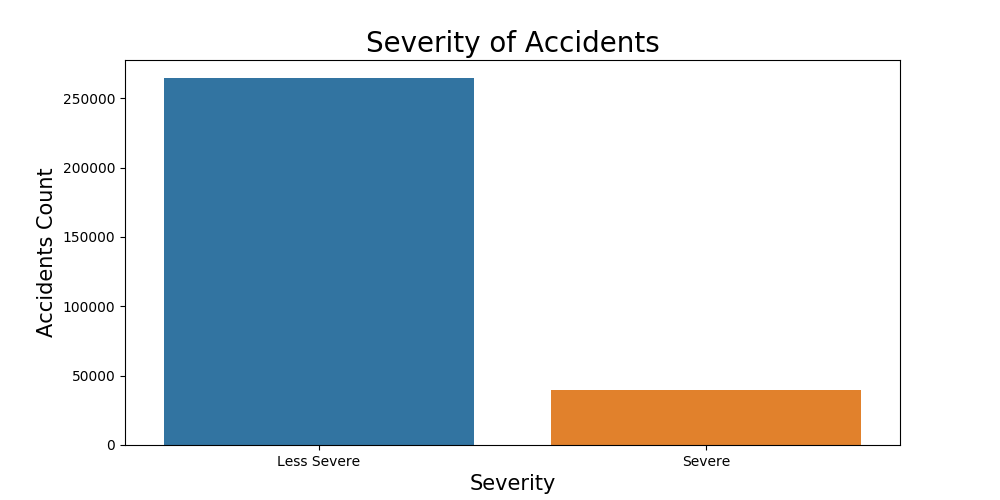
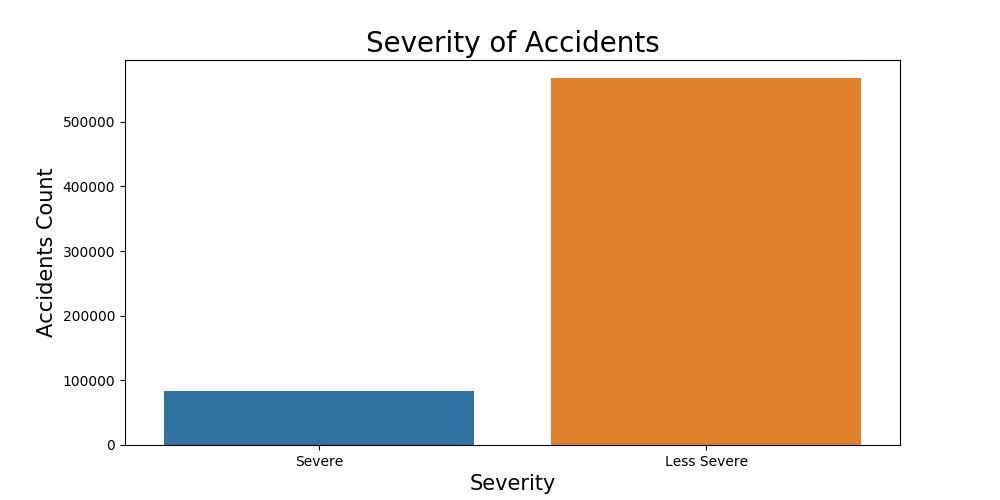
Implemented Supervised Learning algorithms

diff --git a/Core/supervised_learning.py b/Core/supervised_learning.py
@@ -1,0 +1,98 @@
+from sklearn.model_selection import train_test_split
+from sklearn import svm
+from Core.data_encoding_sampling import *
+from sklearn import metrics
+from sklearn.ensemble import RandomForestClassifier, AdaBoostClassifier
+from imblearn.ensemble import BalancedRandomForestClassifier, BalancedBaggingClassifier
+from sklearn.model_selection import cross_val_score
+from sklearn.metrics import confusion_matrix, classification_report
+from sklearn.metrics import precision_score, recall_score, roc_auc_score
+from sklearn.neighbors import KNeighborsClassifier
+
+
+class UnsupervisedLearning:
+    def visualise_confusion_matrix(self, data):
+        plt.figure(figsize=(10, 5))
+        plt.clf()
+        plt.imshow(data, interpolation='nearest', cmap='tab20')
+        classNames = ['No Loyalty', 'Loyalty']
+        plt.title('Confusion Matrix')
+        plt.ylabel('Actual\n')
+        plt.xlabel('Predicted\n')
+        tick_marks = np.arange(len(classNames))
+        plt.xticks(tick_marks, classNames)
+        plt.yticks(tick_marks, classNames)
+        s = [['TN', 'FP'], ['FN', 'TP']]
+        for i in range(2):
+            for j in range(2):
+                plt.text(j, i, str(s[i][j]) + "=" + str(data[i][j]), horizontalalignment='center',
+                         color='black')
+        plt.show()
+
+    def compare_models(self, accuracy_comparison, accuracy_table_cols):
+        for algorithm in machine_learning_algorithms:
+            algorithm.fit(X_train, y_train)
+            algorithm_name = algorithm.__class__.__name__
+            print(algorithm_name)
+            y_pred = algorithm.predict(X_test)
+            accuracy = metrics.accuracy_score(y_test, y_pred)
+            print("Accuracy", accuracy)
+            # cv_score = np.mean(cross_val_score(algorithm,X_train,y_train,cv=5))
+            # print("Cross Validation Score",cv_score)
+            print(classification_report(y_test, y_pred))
+            confusion_matrix_values = confusion_matrix(y_test, y_pred)
+
+            true_negative, false_positive, false_negative, true_positive = confusion_matrix_values.ravel()
+
+            fpr_value = false_positive / (true_negative + false_positive)
+            error_rate = 1 - accuracy
+            precision_value = precision_score(y_test, y_pred)
+            recall_value = recall_score(y_test, y_pred)
+            auc_value = roc_auc_score(y_test, y_pred)
+
+            print(precision_value)
+            print(recall_value)
+
+            accuracy_table = pd.DataFrame([[algorithm, round(accuracy * 100, 2), round(error_rate * 100, 2),
+                                            round(fpr_value * 100, 2), round(auc_value * 100, 2)
+                                               , round(precision_value * 100, 2), round(recall_value * 100, 2),
+                                            round(69 * 100, 2)]],
+                                          columns=accuracy_table_cols)
+            accuracy_comparison = accuracy_comparison.append(accuracy_table)
+            unsupervised_learning.visualise_confusion_matrix(confusion_matrix_values)
+
+        print(accuracy_comparison.head())
+
+    def other_models(self):
+        svm_classifier = svm.SVC(kernel='linear')
+        svm_classifier.fit(X_train, y_train)
+        y_pred = svm_classifier.predict(X_test)
+        print("Accuracy Report", classification_report(y_test, y_pred))
+
+
+unsupervised_learning = UnsupervisedLearning()
+data_encoding_object = DataEncoding(
+    "/Volumes/SJSU/CS271 Topics in Machine Learning/Final project/Dataset/main_frame.pkl")
+main_dataset, X, y = data_encoding_object.fetch_encoded_sampled_Data()
+X_train, X_test, y_train, y_test = train_test_split(X, y, test_size=0.33, random_state=109)
+
+machine_learning_algorithms = [
+    RandomForestClassifier(n_estimators=500, min_samples_split=10, max_depth=70, criterion='entropy',
+                           max_features=X.shape[1],
+                           random_state=42),
+    AdaBoostClassifier(n_estimators=500, learning_rate=0.05, random_state=42),
+    KNeighborsClassifier(n_neighbors=17)]
+
+accuracy_table_cols = ["Algorithm", "Accuracy", "Error", "FPR", "AUC", "Precision", "Recall", "Cross Validation Score"]
+accuracy_comparison = pd.DataFrame(columns=accuracy_table_cols)
+unsupervised_learning.compare_models(accuracy_comparison, accuracy_table_cols)
+
+balanced_ensemble_algorithms = [
+    BalancedRandomForestClassifier(n_estimators=500, sampling_strategy='majority', min_samples_split=10,
+                                   min_samples_leaf=1, criterion='entropy', max_depth=70,
+                                   max_features=X.shape[1],
+                                   replacement=True,
+                                   random_state=42),
+    BalancedBaggingClassifier(n_estimators=500, max_features=X.shape[1], replacement=True,
+                              sampling_strategy='majority', random_state=42)]
+

diff --git a/Core/data_cleansing.py b/Core/data_cleansing.py
@@ -21,7 +21,7 @@ class DataProcessor:
         for chunk_data in dataset:
             if dataset_name == "accident_dataset":
                 usefuldata = chunk_data[(chunk_data['Carriageway_Hazards'] != out_of_range)
-                                        & (chunk_data['Year'] >= 2012)
+                                        & (chunk_data['Year'] >= 2007)
                                         & (chunk_data['Weather_Conditions'] != out_of_range)
                                         & (chunk_data['Road_Type'] != "Unknown")
                                         & (chunk_data['Road_Surface_Conditions'] != out_of_range)
@@ -36,7 +36,7 @@ class DataProcessor:
                                         & (chunk_data['Skidding_and_Overturning'] != out_of_range)
                                         & (chunk_data['Age_Band_of_Driver'] != out_of_range)
                                         & (chunk_data['Was_Vehicle_Left_Hand_Drive'] != out_of_range)
-                                        & (chunk_data.Year.astype(int) >= 2012)
+                                        & (chunk_data.Year.astype(int) >= 2007)
                                         & (chunk_data['Hit_Object_in_Carriageway'] != out_of_range)
                                         & (chunk_data['Sex_of_Driver'] != out_of_range)
                                         & (chunk_data.Year.astype(int) <= 2017)

diff --git a/Core/data_encoding_sampling.py b/Core/data_encoding_sampling.py
@@ -42,11 +42,11 @@ class DataEncoding:
         plt.show()
 
     def undersample_dataset(self,X,y):
-        X_train, X_test, y_train, y_test = train_test_split(X,y,test_size=0.33, random_state=27)
+        X_train, X_test, y_train, y_test = train_test_split(X,y,test_size=0.25, random_state=27)
         train_data = pd.concat([X_train,y_train],axis=1)
         severe_data = train_data[train_data.Serious_Class == 1]
         less_severe_data = train_data[train_data.Serious_Class == 0]
-        undersample_less_severe = resample(less_severe_data,n_samples=len(severe_data), random_state=0)
+        undersample_less_severe = resample(less_severe_data,n_samples=len(severe_data), random_state=27, replace=True)
         undersampled_data=pd.concat([severe_data,undersample_less_severe])
         return undersampled_data
         #print(undersampled_data.Serious_Class.value_counts())
